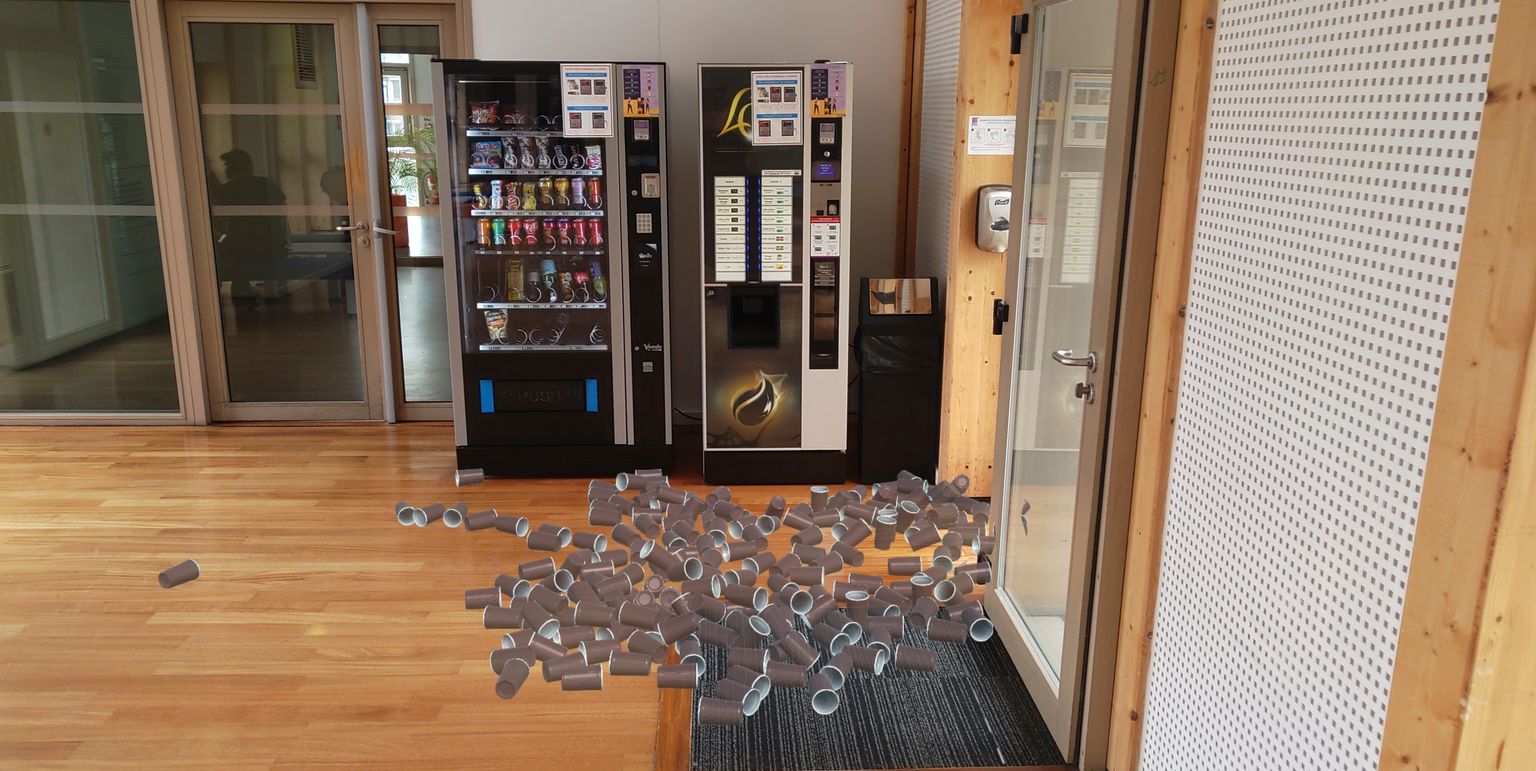
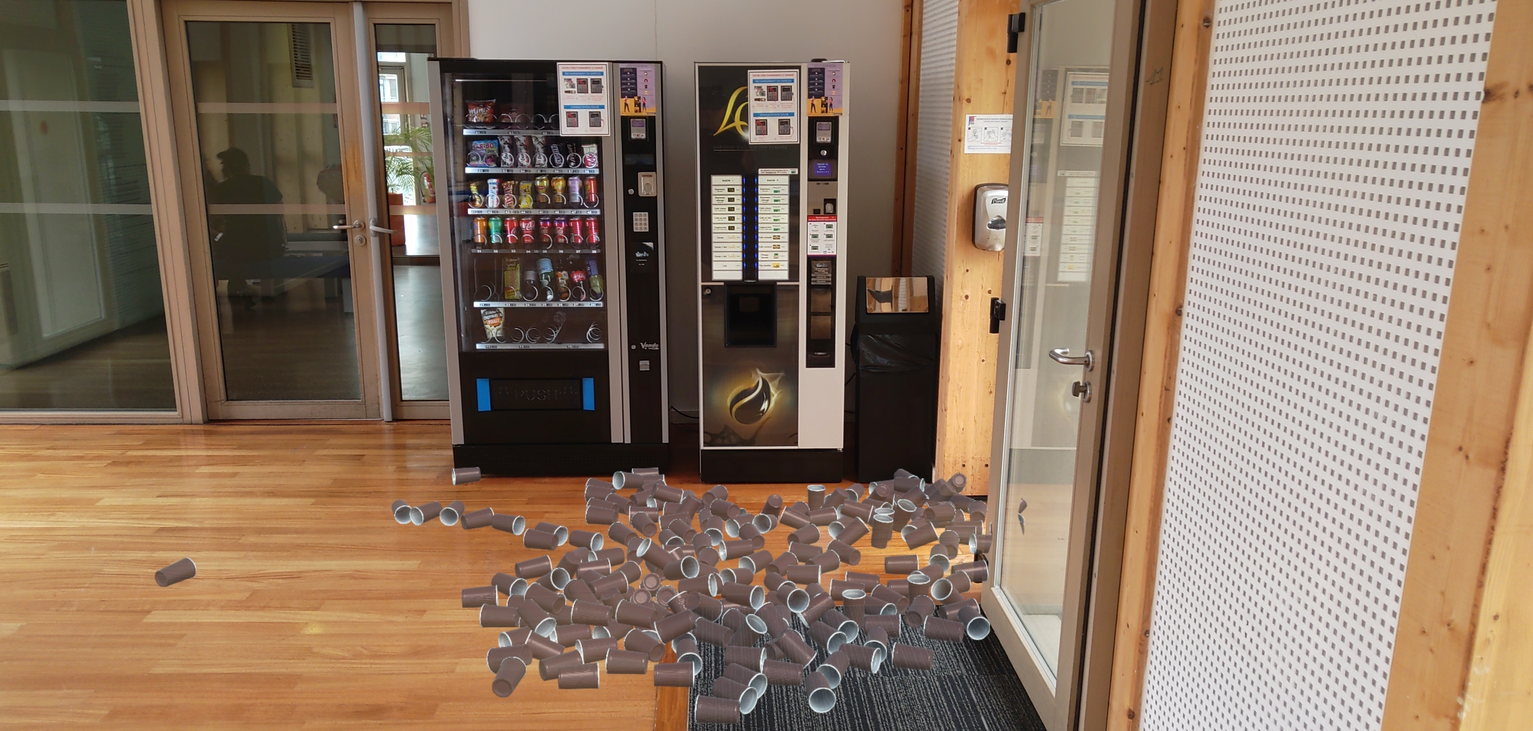
fix project pictures

diff --git a/_projects/1_project.md b/_projects/1_project.md
@@ -2,7 +2,7 @@
 layout: page
 title: ARWAVs
 description: Augmented Reality Visualization of Waste Accumulation
-img: assets/arwav.jpeg
+img: assets/arwav_preview.jpg
 importance: 1
 category: work
 related_publications: true
